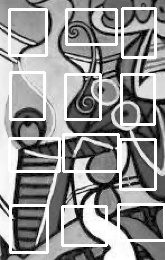
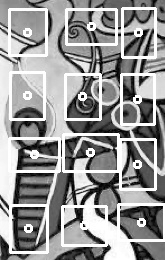
add target

diff --git a/Puzzle.py b/Puzzle.py
@@ -2,6 +2,7 @@ import cv2
 import sys
 import scipy
 import numpy as np
+import math
 
 from detect_pieces import *
 from utility import *
@@ -36,8 +37,7 @@ class PuzzleSolver():
 		methods = ['cv2.TM_CCOEFF', 'cv2.TM_CCOEFF_NORMED', 'cv2.TM_CCORR', 'cv2.TM_CCORR_NORMED', 'cv2.TM_SQDIFF', 'cv2.TM_SQDIFF_NORMED']
 		display = self.original.copy()
 
-		for i in [0, 1, 2, 3, 4, 5, 6, 7, 8, 9, 10, 11]: #range(len(self.pieces)):
-			# rotated = scipy.ndimage.rotate(self.pieces[i].img, self.pieces[i].orientation)
+		for i in range(len(self.pieces)):
 			gray = cv2.cvtColor(self.pieces[i].img, cv2.COLOR_BGR2GRAY)
 			gray = getRect(gray)
 
@@ -46,13 +46,14 @@ class PuzzleSolver():
 			phi_idx = -1
 			topleft_idx = -1
 
+			rot = gray.copy()
 			for phi in [0, 90, 180, 270]:
-				gray = scipy.ndimage.rotate(gray, phi)
+				rot = scipy.ndimage.rotate(gray, phi)
 
 				method = eval(methods[3])
 
 				# Apply template Matching
-				res = cv2.matchTemplate(self.original, gray, method)
+				res = cv2.matchTemplate(self.original, rot, method)
 				min_val, max_val, min_loc, max_loc = cv2.minMaxLoc(res)
 				# If the method is TM_SQDIFF or TM_SQDIFF_NORMED, take minimum
 				if method in [cv2.TM_SQDIFF, cv2.TM_SQDIFF_NORMED]:
@@ -65,17 +66,16 @@ class PuzzleSolver():
 					phi_idx = phi
 					topleft_idx = top_left
 
-			self.pieces[i].orientation = phi_idx + self.pieces[i].orientation
 			top_left = topleft_idx
 			bottom_right = (top_left[0] + w, top_left[1] + h)
+			cv2.rectangle(display, top_left, bottom_right, 255, 2)
+			cv2.circle(display, (int(top_left[0] + w/2), int(top_left[1] + h/2)), 3, 255, 2)
+			cv2.imwrite('images/tmp/matched.jpg', display)
 
 			print(phi_idx, max_val, top_left, bottom_right)
+			self.pieces[i].orientation = phi_idx + self.pieces[i].orientation
 
-			cv2.rectangle(display, top_left, bottom_right, 255, 2)
-
-			cv2.imwrite('images/tmp/matching.jpg', gray)
-			cv2.imwrite('images/tmp/matched.jpg', display)
-	
+			self.pieces[i].target = [math.floor((top_left[1] + w/2)/self.original.shape[0] * 4), math.floor((top_left[0] + h/2)/self.original.shape[1] * 3)]
 
 class Puzzle():
 	def __init__(self, piece):

diff --git a/detect_pieces.py b/detect_pieces.py
@@ -37,9 +37,6 @@ def image_preprocess(img_path):
     return img
 
 def getRect(img):
-    M = cv2.moments(img)
-    cX = int(M['m10'] / M['m00'])
-    cY = int(M['m01'] / M['m00'])
 
     h, w = img.shape
 
